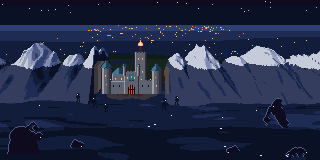
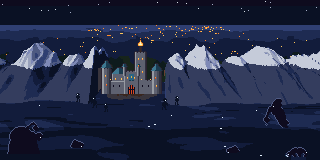
Lanternhold panels fix 1: slide 1's far lands without ruled bands, the warm edge on the cleft's sides narrow

diff --git a/games/lanternhold/tools/slides/slide_wall.py b/games/lanternhold/tools/slides/slide_wall.py
@@ -136,8 +136,9 @@ def land_colour(X, Z, h, shade, slope, k):
         return P(["nightDeep", "nightBlue", "nightSlate", "nightHaze"][lv])
     if k == 3:
         # the inner lands far off under the moon: woods, fields and meadows in the blue of distance
-        n = fbm(X * 0.006 / Z, Z * 0.8, 561, 2)
-        z = Z + (n - 0.5) * 2.5
+        sx = (X - 160.0) / Z
+        n = fbm(sx * 0.045, Z * 0.35, 561, 3)
+        z = Z * (0.75 + 0.5 * n) + (fbm(sx * 0.11, Z, 563, 2) - 0.5) * 1.2
         if z < 3.4:
             return P("fir0") if n < 0.5 else P("leafDeep")
         if z < 6.0:
@@ -417,10 +418,10 @@ def castle(c, zbuf, kind):
         rows[y] = (min(lo, x), max(hi, x))
     for y, (lo, hi) in rows.items():
         for side, x0 in ((-1, lo - 2), (1, hi + 2)):
-            for k in range(7):
+            for k in range(3):
                 x = x0 + side * k
-                if 0 <= x < W and 0 <= y < H and kind[y][x] == 2:
-                    c.c[y][x] = warm(c.c[y][x], 2 if k < 3 else 1)
+                if 0 <= x < W and 0 <= y < H and kind[y][x] == 2 and y > base - 26:
+                    c.c[y][x] = warm(c.c[y][x], 1)
     # the castle itself, outlined where it meets the dark
     ink = P("ink")
     for (x, y) in pix:
